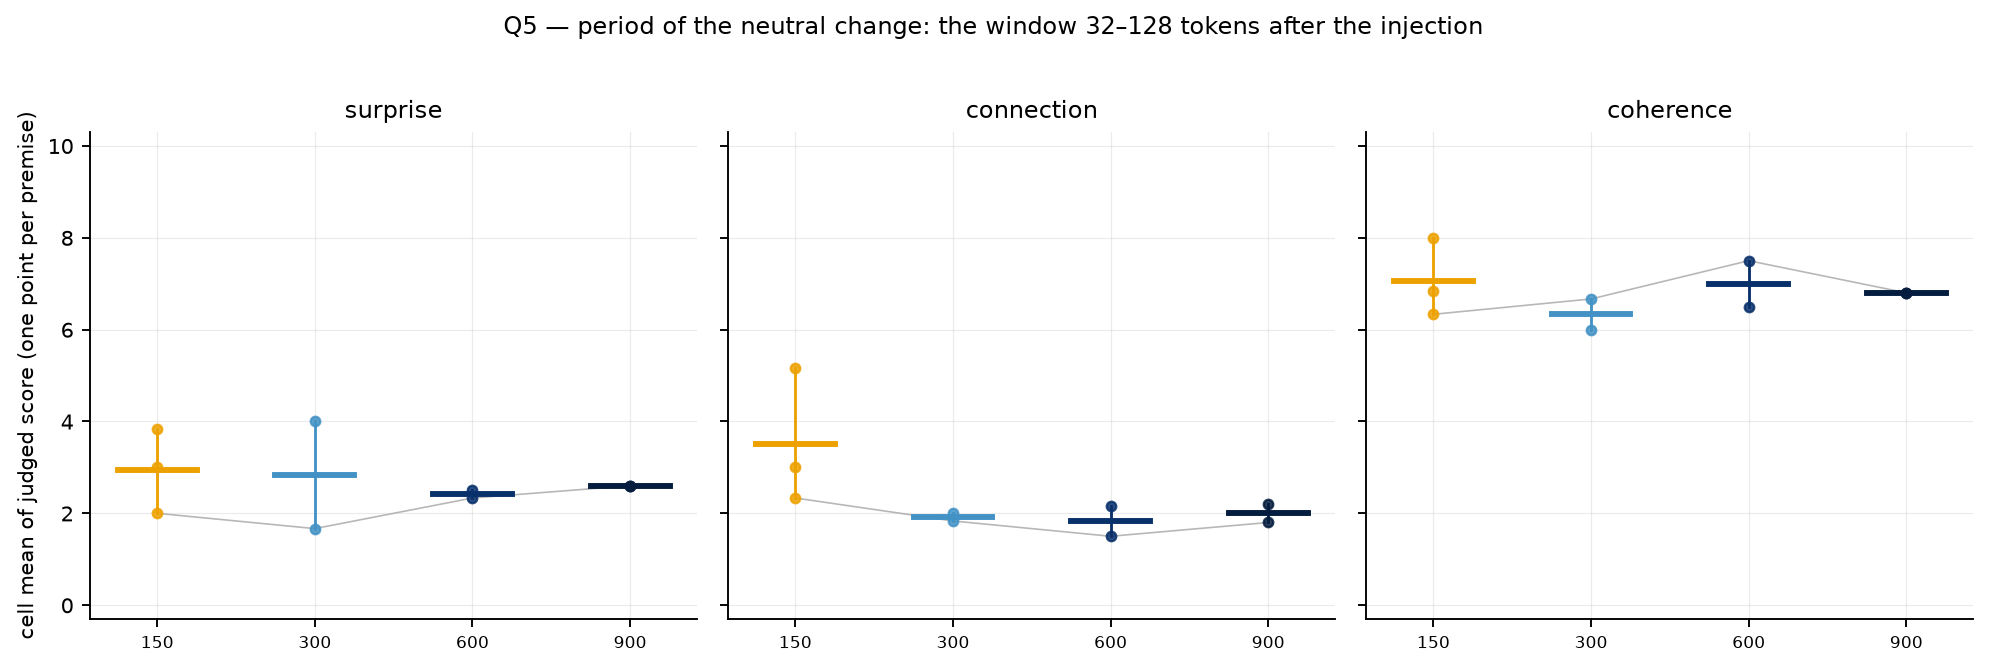
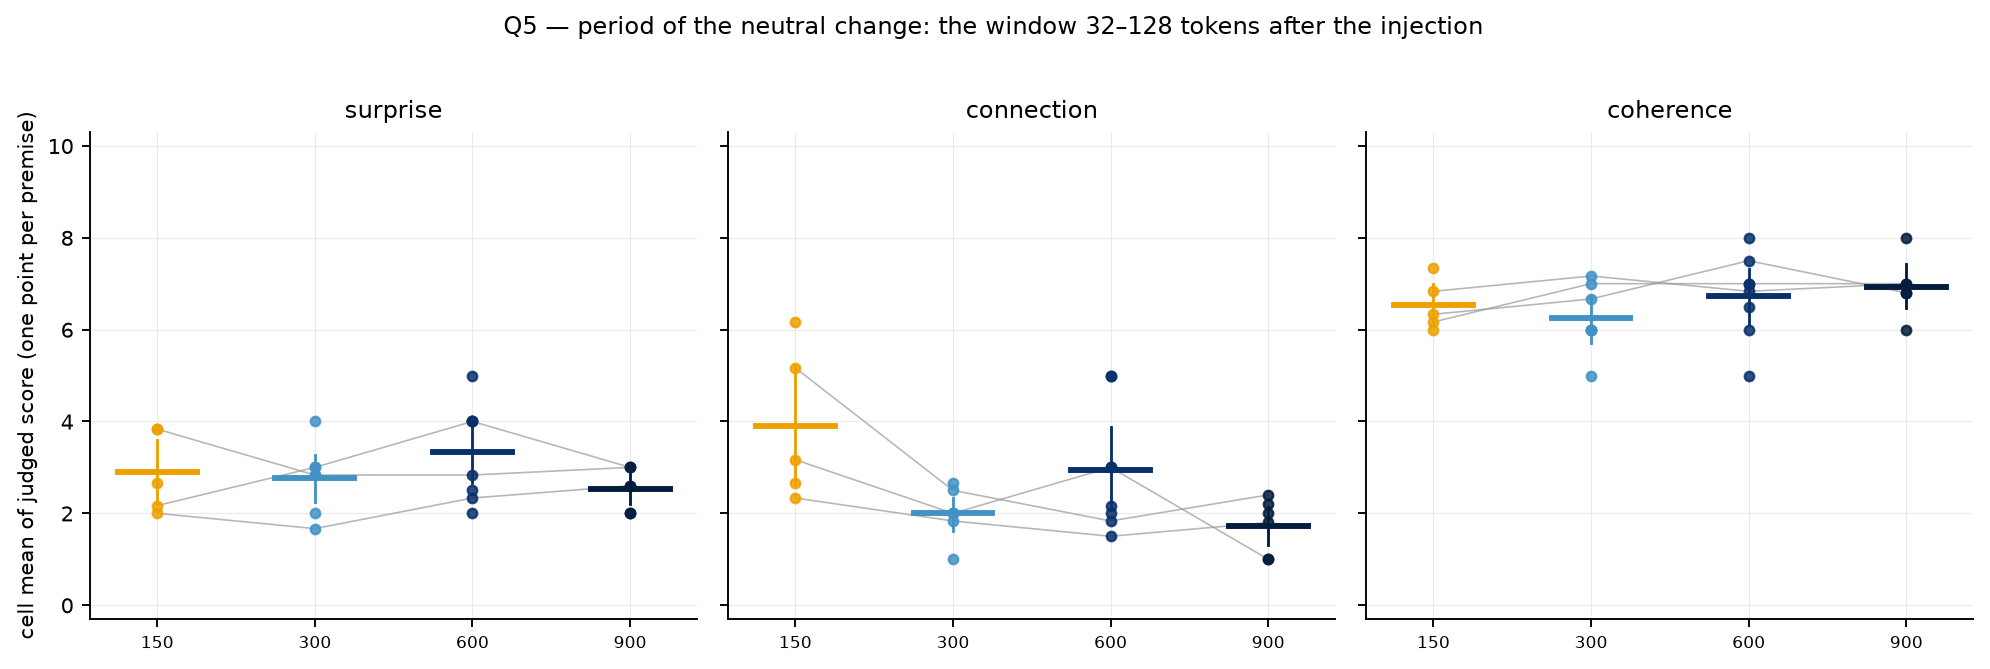
analysis_gen: deep-window comparison (>=300 tokens after the last injection)

diff --git a/scripts/analysis_gen.py b/scripts/analysis_gen.py
@@ -63,13 +63,15 @@ def load_gen(run: str):
 
 
 def cell_means(rows, cond, dim, offset="primary"):
-    """{seed: mean over the cell's windows}. offset: 'primary' (since==32 or grid), 'all', or an int."""
+    """{seed: mean over the cell's windows}. offset: 'primary' (since==32 or grid), 'all', 'deep' (since >= 300), or an int."""
     by = {}
     for r in rows:
         if r["cond"] != cond:
             continue
         s = r.get("since")
         if offset == "primary" and s not in (32, None):
+            continue
+        if offset == "deep" and (s is None or s < 300):
             continue
         if isinstance(offset, int) and s != offset:
             continue
@@ -222,6 +224,11 @@ def main() -> None:
           [("clock_reenc", "stitch on the clock 150"), ("clock900_reenc", "stitch on the clock 900"),
            ("clock900", "neutral change 900"), ("sal_reenc", "stitch on salience events"), ("abl_salience", "salience only")],
           ref=1, fname="fig9_q4_timing.png")
+    # Q4b: deep into the segment (>= 300 generated tokens after the last injection): where the stream is left alone
+    block("Q4b — deep windows (at least 300 tokens after the last injection): the stream when it is left alone", main30,
+          [("clock900_reenc", "stitch on the clock 900"), ("clock900", "neutral change 900"), ("clock600", "neutral change 600"),
+           ("sal_reenc", "stitch on salience events"), ("scaffold0", "DREAM scaffold")],
+          ref=0, fname=None, offset="deep")
     # Q5: period (post-interruption window, offset 32) and decay curve
     block("Q5 — period of the neutral change: the window 32–128 tokens after the injection", main30,
           [("bare_reseed", "150"), ("clock300", "300"), ("clock600", "600"), ("clock900", "900")],

diff --git a/docs/APPENDIX_GEN.md b/docs/APPENDIX_GEN.md
@@ -2,18 +2,18 @@
 
 Windows of 96 model-generated tokens starting 32 tokens after each injection (none crossing an injection); uniform grid for uninterrupted arms; the judge sees the 600 preceding tokens as context. Unit = cell (premise); CIs are bootstrap over cells; paired comparisons use exact sign-flip permutation p-values on the 10 paired differences and Cliff's delta on cell means. Opus 5, k=5, median per window.
 
-279 judged windows on the main generator, 94 on Qwen3-8B, 77 on OLMo-2.
+564 judged windows on the main generator, 174 on Qwen3-8B, 144 on OLMo-2.
 
 
 ### Q1 — habituation × interruption (period 150) and baselines — cell means (mean over cells [95% CI over cells])
 
 | condition | n cells | surprise | connection | coherence |
 |---|---|---|---|---|
-| bare | 3 | 0.72 [0.33, 1.33] | 0.50 [0.17, 0.67] | 3.33 [1.33, 6.17] |
-| bare + habituation | 2 | 1.75 [1.50, 2.00] | 1.00 [1.00, 1.00] | 5.17 [4.33, 6.00] |
+| bare | 5 | 0.57 [0.33, 0.97] | 0.37 [0.13, 0.60] | 3.07 [1.87, 4.70] |
+| bare + habituation | 7 | 0.86 [0.31, 1.40] | 0.81 [0.38, 1.29] | 4.88 [3.05, 6.69] |
 | reseed 150, no habituation | 0 | — | — | — |
-| habituation + reseed 150 | 3 | 2.94 [2.00, 3.83] | 3.50 [2.33, 5.17] | 7.06 [6.33, 8.00] |
-| DREAM scaffold | 2 | 2.25 [1.50, 3.00] | 1.08 [1.00, 1.17] | 5.00 [4.67, 5.33] |
+| habituation + reseed 150 | 5 | 2.90 [2.20, 3.60] | 3.90 [2.63, 5.20] | 6.53 [6.13, 7.00] |
+| DREAM scaffold | 5 | 2.20 [1.80, 2.70] | 1.40 [1.03, 1.97] | 5.77 [4.67, 6.87] |
 | habituation 1.3 | 0 | — | — | — |
 | habituation, EOS allowed | 0 | — | — | — |
 
@@ -21,29 +21,47 @@ Windows of 96 model-generated tokens starting 32 tokens after each injection (no
 
 | condition | dim | Δ [CI] | p (perm) | q (BH) | Cliff δ | n seeds |
 |---|---|---|---|---|---|---|
+| bare | surprise | -0.54 [-1.42, +0.33] | 0.500 | 0.562 | +0.00 | 4 |
+| bare | connection | -0.21 [-0.92, +0.50] | 0.750 | 0.750 | -0.12 | 4 |
+| bare | coherence | -1.08 [-3.08, +0.92] | 0.500 | 0.562 | -0.12 | 4 |
+| habituation + reseed 150 | surprise | **+1.75 [+0.33, +3.17]** | 0.125 | 0.281 | +0.94 | 4 |
+| habituation + reseed 150 | connection | **+2.83 [+1.67, +4.42]** | 0.125 | 0.281 | +1.00 | 4 |
+| habituation + reseed 150 | coherence | **+2.96 [+1.08, +4.83]** | 0.125 | 0.281 | +0.94 | 4 |
+| DREAM scaffold | surprise | +1.21 [+0.00, +2.42] | 0.500 | 0.562 | +0.69 | 4 |
+| DREAM scaffold | connection | **+0.92 [+0.08, +1.92]** | 0.250 | 0.450 | +0.75 | 4 |
+| DREAM scaffold | coherence | **+2.75 [+0.67, +5.12]** | 0.125 | 0.281 | +0.75 | 4 |
 
 ### Q2 — what is injected (period 150) — cell means (mean over cells [95% CI over cells])
 
 | condition | n cells | surprise | connection | coherence |
 |---|---|---|---|---|
-| neutral subject change | 3 | 2.94 [2.00, 3.83] | 3.50 [2.33, 5.17] | 7.06 [6.33, 8.00] |
-| re-encounter stitch | 3 | 3.50 [2.67, 4.00] | 4.83 [3.33, 6.00] | 6.61 [5.83, 7.00] |
-| the premise itself | 3 | 1.50 [0.33, 3.00] | 0.72 [0.17, 1.00] | 5.28 [3.67, 6.17] |
-| the stream's own past | 2 | 0.75 [0.50, 1.00] | 0.83 [0.67, 1.00] | 3.58 [2.83, 4.33] |
+| neutral subject change | 5 | 2.90 [2.20, 3.60] | 3.90 [2.63, 5.20] | 6.53 [6.13, 7.00] |
+| re-encounter stitch | 8 | 3.04 [2.27, 3.73] | 4.29 [3.42, 5.17] | 5.48 [4.62, 6.27] |
+| the premise itself | 9 | 0.92 [0.36, 1.57] | 0.66 [0.26, 1.06] | 3.88 [2.64, 5.06] |
+| the stream's own past | 5 | 1.12 [0.40, 2.15] | 1.38 [0.47, 2.48] | 3.27 [2.17, 4.37] |
 
 ### vs neutral subject change — paired by seed
 
 | condition | dim | Δ [CI] | p (perm) | q (BH) | Cliff δ | n seeds |
 |---|---|---|---|---|---|---|
+| re-encounter stitch | surprise | +0.72 [-0.17, +1.83] | 0.500 | 0.500 | +0.33 | 3 |
+| re-encounter stitch | connection | +1.06 [-0.17, +2.83] | 0.500 | 0.500 | +0.44 | 3 |
+| re-encounter stitch | coherence | -0.67 [-1.50, +0.67] | 0.500 | 0.500 | -0.33 | 3 |
+| the premise itself | surprise | **-1.88 [-3.17, -1.00]** | 0.125 | 0.375 | -1.00 | 4 |
+| the premise itself | connection | **-3.08 [-5.04, -1.50]** | 0.125 | 0.375 | -1.00 | 4 |
+| the premise itself | coherence | **-3.17 [-4.75, -1.17]** | 0.125 | 0.375 | -0.81 | 4 |
+| the stream's own past | surprise | **-2.56 [-3.83, -1.00]** | 0.250 | 0.375 | -1.00 | 3 |
+| the stream's own past | connection | **-3.56 [-6.17, -1.33]** | 0.250 | 0.375 | -1.00 | 3 |
+| the stream's own past | coherence | **-4.06 [-5.33, -2.00]** | 0.250 | 0.375 | -1.00 | 3 |
 
 ### Q3 — period 300: what carries the effect (context preserved vs reset; semantic change vs neutral boundary) — cell means (mean over cells [95% CI over cells])
 
 | condition | n cells | surprise | connection | coherence |
 |---|---|---|---|---|
-| no interruption | 2 | 1.75 [1.50, 2.00] | 1.00 [1.00, 1.00] | 5.17 [4.33, 6.00] |
+| no interruption | 7 | 0.86 [0.31, 1.40] | 0.81 [0.38, 1.29] | 4.88 [3.05, 6.69] |
 | paragraph break (sham) | 0 | — | — | — |
 | continuity connective (sham) | 0 | — | — | — |
-| subject change, context preserved | 2 | 2.83 [1.67, 4.00] | 1.92 [1.83, 2.00] | 6.33 [6.00, 6.67] |
+| subject change, context preserved | 7 | 2.76 [2.24, 3.26] | 2.00 [1.62, 2.33] | 6.26 [5.71, 6.74] |
 | subject change, no habituation | 0 | — | — | — |
 | subject change, context reset | 0 | — | — | — |
 | break, context reset | 0 | — | — | — |
@@ -52,112 +70,160 @@ Windows of 96 model-generated tokens starting 32 tokens after each injection (no
 
 | condition | dim | Δ [CI] | p (perm) | q (BH) | Cliff δ | n seeds |
 |---|---|---|---|---|---|---|
+| subject change, context preserved | surprise | **+2.06 [+1.03, +3.11]** | 0.031 | 0.047 | +0.94 | 6 |
+| subject change, context preserved | connection | **+1.39 [+0.94, +1.92]** | 0.031 | 0.047 | +0.92 | 6 |
+| subject change, context preserved | coherence | **+2.11 [+0.17, +3.94]** | 0.125 | 0.125 | +0.58 | 6 |
 
 ### Q4 — timing: salience vs clock (same stitch) — cell means (mean over cells [95% CI over cells])
 
 | condition | n cells | surprise | connection | coherence |
 |---|---|---|---|---|
-| stitch on the clock 150 | 3 | 3.50 [2.67, 4.00] | 4.83 [3.33, 6.00] | 6.61 [5.83, 7.00] |
-| stitch on the clock 900 | 2 | 3.40 [2.80, 4.00] | 3.25 [2.80, 3.70] | 6.30 [5.80, 6.80] |
-| neutral change 900 | 2 | 2.60 [2.60, 2.60] | 2.00 [1.80, 2.20] | 6.80 [6.80, 6.80] |
-| stitch on salience events | 2 | 3.00 [2.50, 3.50] | 2.00 [1.50, 2.50] | 5.25 [5.00, 5.50] |
-| salience only | 3 | 1.39 [0.17, 2.50] | 0.78 [0.00, 1.33] | 3.89 [2.50, 4.67] |
+| stitch on the clock 150 | 8 | 3.04 [2.27, 3.73] | 4.29 [3.42, 5.17] | 5.48 [4.62, 6.27] |
+| stitch on the clock 900 | 7 | 3.50 [2.97, 4.00] | 3.11 [2.71, 3.53] | 6.20 [5.83, 6.60] |
+| neutral change 900 | 6 | 2.53 [2.20, 2.87] | 1.73 [1.30, 2.13] | 6.93 [6.47, 7.43] |
+| stitch on salience events | 5 | 3.38 [2.80, 4.04] | 2.71 [1.54, 3.92] | 5.55 [4.63, 6.52] |
+| salience only | 5 | 1.47 [0.77, 2.10] | 0.83 [0.37, 1.27] | 3.57 [2.67, 4.47] |
 
 ### vs stitch on the clock 900 — paired by seed
 
 | condition | dim | Δ [CI] | p (perm) | q (BH) | Cliff δ | n seeds |
 |---|---|---|---|---|---|---|
+| stitch on the clock 150 | surprise | -0.19 [-1.15, +0.71] | 0.750 | 0.818 | -0.03 | 6 |
+| stitch on the clock 150 | connection | **+1.59 [+0.21, +2.84]** | 0.125 | 0.500 | +0.67 | 6 |
+| stitch on the clock 150 | coherence | -0.59 [-1.62, +0.07] | 0.375 | 0.643 | -0.22 | 6 |
+| neutral change 900 | surprise | **-0.70 [-1.15, -0.30]** | 0.125 | 0.500 | -0.50 | 4 |
+| neutral change 900 | connection | **-0.97 [-1.38, -0.55]** | 0.125 | 0.500 | -0.94 | 4 |
+| neutral change 900 | coherence | +0.55 [-0.20, +1.30] | 0.500 | 0.667 | +0.62 | 4 |
+| stitch on salience events | surprise | +0.05 [-1.50, +1.60] | 1.000 | 1.000 | +0.06 | 4 |
+| stitch on salience events | connection | +0.28 [-1.45, +1.88] | 0.625 | 0.750 | +0.25 | 4 |
+| stitch on salience events | coherence | -0.56 [-1.22, +0.10] | 0.500 | 0.667 | -0.31 | 4 |
+| salience only | surprise | **-2.14 [-3.63, -1.30]** | 0.250 | 0.500 | -1.00 | 3 |
+| salience only | connection | **-2.29 [-3.40, -1.67]** | 0.250 | 0.500 | -1.00 | 3 |
+| salience only | coherence | **-2.18 [-2.90, -1.50]** | 0.250 | 0.500 | -1.00 | 3 |
+
+### Q4b — deep windows (at least 300 tokens after the last injection): the stream when it is left alone — cell means (mean over cells [95% CI over cells])
+
+| condition | n cells | surprise | connection | coherence |
+|---|---|---|---|---|
+| stitch on the clock 900 | 8 | 2.98 [1.86, 4.31] | 1.80 [1.44, 2.24] | 5.12 [4.42, 5.66] |
+| neutral change 900 | 10 | 2.58 [2.05, 3.11] | 1.84 [1.35, 2.45] | 5.38 [4.53, 6.14] |
+| neutral change 600 | 7 | 2.93 [1.95, 4.07] | 2.31 [1.57, 3.00] | 5.40 [4.74, 6.10] |
+| stitch on salience events | 6 | 1.65 [0.83, 2.43] | 1.61 [0.43, 2.86] | 4.29 [3.45, 5.17] |
+| DREAM scaffold | 3 | 1.26 [0.75, 1.80] | 0.96 [0.44, 1.25] | 5.51 [3.22, 7.50] |
+
+### vs stitch on the clock 900 — paired by seed
+
+| condition | dim | Δ [CI] | p (perm) | q (BH) | Cliff δ | n seeds |
+|---|---|---|---|---|---|---|
+| neutral change 900 | surprise | -0.33 [-1.88, +0.97] | 0.750 | 0.875 | +0.00 | 8 |
+| neutral change 900 | connection | +0.12 [-0.25, +0.56] | 0.688 | 0.875 | -0.08 | 8 |
+| neutral change 900 | coherence | +0.12 [-0.73, +0.96] | 0.805 | 0.875 | +0.05 | 8 |
+| neutral change 600 | surprise | +0.64 [-0.65, +2.29] | 0.594 | 0.875 | +0.25 | 6 |
+| neutral change 600 | connection | +0.32 [-0.47, +1.15] | 0.531 | 0.875 | +0.17 | 6 |
+| neutral change 600 | coherence | +0.19 [-0.60, +1.07] | 0.750 | 0.875 | -0.03 | 6 |
+| stitch on salience events | surprise | +0.14 [-0.98, +0.99] | 0.875 | 0.875 | +0.25 | 4 |
+| stitch on salience events | connection | +0.56 [-0.70, +1.81] | 0.500 | 0.875 | +0.00 | 4 |
+| stitch on salience events | coherence | -1.20 [-2.31, +0.24] | 0.250 | 0.875 | -0.56 | 4 |
 
 ### Q5 — period of the neutral change: the window 32–128 tokens after the injection — cell means (mean over cells [95% CI over cells])
 
 | condition | n cells | surprise | connection | coherence |
 |---|---|---|---|---|
-| 150 | 3 | 2.94 [2.00, 3.83] | 3.50 [2.33, 5.17] | 7.06 [6.33, 8.00] |
-| 300 | 2 | 2.83 [1.67, 4.00] | 1.92 [1.83, 2.00] | 6.33 [6.00, 6.67] |
-| 600 | 2 | 2.42 [2.33, 2.50] | 1.83 [1.50, 2.17] | 7.00 [6.50, 7.50] |
-| 900 | 2 | 2.60 [2.60, 2.60] | 2.00 [1.80, 2.20] | 6.80 [6.80, 6.80] |
+| 150 | 5 | 2.90 [2.20, 3.60] | 3.90 [2.63, 5.20] | 6.53 [6.13, 7.00] |
+| 300 | 7 | 2.76 [2.24, 3.26] | 2.00 [1.62, 2.33] | 6.26 [5.71, 6.74] |
+| 600 | 8 | 3.33 [2.67, 4.02] | 2.94 [2.10, 3.88] | 6.73 [6.12, 7.31] |
+| 900 | 6 | 2.53 [2.20, 2.87] | 1.73 [1.30, 2.13] | 6.93 [6.47, 7.43] |
 
 ### vs 150 — paired by seed
 
 | condition | dim | Δ [CI] | p (perm) | q (BH) | Cliff δ | n seeds |
 |---|---|---|---|---|---|---|
+| 300 | surprise | -0.04 [-0.67, +0.58] | 1.000 | 1.000 | +0.12 | 4 |
+| 300 | connection | **-1.50 [-2.29, -0.79]** | 0.125 | 0.281 | -0.88 | 4 |
+| 300 | coherence | **+0.38 [+0.08, +0.71]** | 0.250 | 0.375 | +0.44 | 4 |
+| 600 | surprise | +0.33 [-0.67, +1.42] | 0.625 | 0.804 | +0.50 | 4 |
+| 600 | connection | **-1.38 [-2.71, -0.42]** | 0.125 | 0.281 | -0.62 | 4 |
+| 600 | coherence | **+0.67 [+0.21, +1.04]** | 0.250 | 0.375 | +0.69 | 4 |
+| 900 | surprise | -0.02 [-0.75, +0.72] | 1.000 | 1.000 | +0.06 | 4 |
+| 900 | connection | **-1.78 [-2.49, -0.94]** | 0.125 | 0.281 | -0.88 | 4 |
+| 900 | coherence | **+0.87 [+0.32, +1.62]** | 0.125 | 0.281 | +0.88 | 4 |
 
 ### Q5b — decay: cell mean surprise by tokens since the injection (window start), generated text only; stream estimate = offset means weighted by the stretch of the segment each window represents
 
 | period | offset 32 | offset 160 | offset 300 | offset 450 | offset 600 | offset 750 | stream estimate (S / C / H) |
 |---|---|---|---|---|---|---|---|
-| 150 | 2.94 (n=3) | — | — | — | — | — | 2.94 / 3.50 / 7.06 |
-| 300 | — | — | — | — | — | — | nan / nan / nan |
-| 600 | — | — | — | — | — | — | nan / nan / nan |
-| 900 | — | — | — | 2.22 (n=3) | — | — | 2.22 / 1.78 / 4.44 |
+| 150 | 2.90 (n=5) | — | — | — | — | — | 2.90 / 3.90 / 6.53 |
+| 300 | 2.76 (n=7) | 2.17 (n=4) | — | — | — | — | 2.48 / 2.04 / 6.30 |
+| 600 | 3.33 (n=8) | 3.07 (n=5) | 3.40 (n=5) | 2.40 (n=5) | — | — | 3.05 / 2.64 / 6.23 |
+| 900 | 2.53 (n=6) | 2.28 (n=6) | 3.29 (n=7) | 2.33 (n=6) | 3.00 (n=5) | 1.40 (n=5) | 2.47 / 1.88 / 5.84 |
 
 ### Q6 — the ladder on Qwen3-8B-Base — cell means (mean over cells [95% CI over cells])
 
 | condition | n cells | surprise | connection | coherence |
 |---|---|---|---|---|
-| bare | 3 | 0.61 [0.00, 1.17] | 0.67 [0.17, 1.00] | 3.83 [2.83, 4.83] |
-| bare + habituation | 3 | 1.17 [0.50, 2.17] | 0.44 [0.17, 0.83] | 4.89 [1.67, 7.00] |
-| habituation + reseed 150 | 3 | 3.11 [2.00, 3.83] | 3.83 [3.17, 4.50] | 5.22 [3.83, 6.50] |
-| DREAM scaffold | 3 | 2.33 [1.00, 3.67] | 1.89 [0.67, 3.33] | 3.89 [2.00, 5.00] |
+| bare | 6 | 0.50 [0.17, 0.83] | 0.47 [0.22, 0.75] | 4.17 [3.00, 5.83] |
+| bare + habituation | 6 | 1.36 [0.89, 1.83] | 0.81 [0.36, 1.33] | 4.25 [2.81, 5.72] |
+| habituation + reseed 150 | 6 | 2.76 [1.87, 3.50] | 3.17 [2.19, 3.97] | 4.83 [3.75, 5.75] |
+| DREAM scaffold | 5 | 2.53 [1.53, 3.53] | 1.73 [1.00, 2.60] | 4.93 [3.33, 6.20] |
 
 ### vs bare + habituation — paired by seed
 
 | condition | dim | Δ [CI] | p (perm) | q (BH) | Cliff δ | n seeds |
 |---|---|---|---|---|---|---|
-| bare | surprise | -0.56 [-1.00, +0.17] | 0.500 | 0.750 | -0.33 | 3 |
-| bare | connection | +0.22 [+0.00, +0.67] | 1.000 | 1.000 | +0.33 | 3 |
-| bare | coherence | -1.06 [-4.17, +2.17] | 0.750 | 0.964 | -0.33 | 3 |
-| habituation + reseed 150 | surprise | +1.94 [-0.17, +3.33] | 0.500 | 0.750 | +0.78 | 3 |
-| habituation + reseed 150 | connection | **+3.39 [+2.33, +4.33]** | 0.250 | 0.750 | +1.00 | 3 |
-| habituation + reseed 150 | coherence | +0.33 [-2.17, +3.67] | 1.000 | 1.000 | -0.11 | 3 |
-| DREAM scaffold | surprise | **+1.17 [+0.17, +2.83]** | 0.250 | 0.750 | +0.78 | 3 |
-| DREAM scaffold | connection | **+1.44 [+0.33, +3.17]** | 0.250 | 0.750 | +0.78 | 3 |
-| DREAM scaffold | coherence | -1.00 [-2.00, +0.33] | 0.500 | 0.750 | -0.33 | 3 |
+| bare | surprise | **-0.86 [-1.36, -0.33]** | 0.062 | 0.281 | -0.72 | 6 |
+| bare | connection | -0.33 [-0.94, +0.22] | 0.500 | 0.723 | -0.31 | 6 |
+| bare | coherence | -0.08 [-2.22, +2.56] | 0.906 | 0.906 | +0.00 | 6 |
+| habituation + reseed 150 | surprise | **+1.40 [+0.33, +2.50]** | 0.125 | 0.375 | +0.69 | 6 |
+| habituation + reseed 150 | connection | **+2.36 [+1.33, +3.39]** | 0.031 | 0.281 | +0.89 | 6 |
+| habituation + reseed 150 | coherence | +0.58 [-0.78, +2.06] | 0.562 | 0.723 | +0.14 | 6 |
+| DREAM scaffold | surprise | **+1.13 [+0.07, +2.23]** | 0.188 | 0.422 | +0.60 | 5 |
+| DREAM scaffold | connection | **+0.83 [+0.00, +2.03]** | 0.250 | 0.450 | +0.52 | 5 |
+| DREAM scaffold | coherence | +0.37 [-1.27, +2.00] | 0.750 | 0.844 | +0.20 | 5 |
 
 ### Q6 — the ladder on OLMo-2-13B — cell means (mean over cells [95% CI over cells])
 
 | condition | n cells | surprise | connection | coherence |
 |---|---|---|---|---|
-| bare | 4 | 1.21 [0.50, 1.79] | 0.92 [0.33, 1.50] | 3.54 [1.58, 5.38] |
-| bare + habituation | 3 | 2.56 [1.50, 3.83] | 1.92 [1.00, 2.75] | 5.50 [3.83, 6.67] |
-| habituation + reseed 150 | 3 | 3.47 [2.17, 4.58] | 3.83 [3.00, 4.67] | 5.00 [4.67, 5.17] |
-| DREAM scaffold | 3 | 3.67 [2.00, 5.00] | 2.72 [1.00, 4.00] | 6.50 [5.00, 8.00] |
+| bare | 6 | 1.25 [0.72, 1.72] | 0.89 [0.42, 1.36] | 3.08 [1.97, 4.03] |
+| bare + habituation | 6 | 2.18 [1.26, 3.01] | 1.46 [0.78, 2.14] | 4.36 [3.00, 5.67] |
+| habituation + reseed 150 | 5 | 2.88 [1.97, 3.92] | 2.97 [1.93, 4.00] | 4.20 [3.33, 5.07] |
+| DREAM scaffold | 5 | 3.40 [2.40, 4.40] | 2.48 [1.63, 3.40] | 6.30 [4.90, 7.70] |
 
 ### vs bare + habituation — paired by seed
 
 | condition | dim | Δ [CI] | p (perm) | q (BH) | Cliff δ | n seeds |
 |---|---|---|---|---|---|---|
-| bare | surprise | -1.61 [-3.67, +0.00] | 0.500 | 0.562 | -0.89 | 3 |
-| bare | connection | -1.25 [-2.75, +0.33] | 0.500 | 0.562 | -0.78 | 3 |
-| bare | coherence | -2.78 [-5.83, +0.00] | 0.500 | 0.562 | -0.89 | 3 |
-| habituation + reseed 150 | surprise | +0.92 [-1.67, +2.25] | 0.500 | 0.562 | +0.33 | 3 |
-| habituation + reseed 150 | connection | **+1.92 [+0.25, +2.83]** | 0.250 | 0.562 | +1.00 | 3 |
-| habituation + reseed 150 | coherence | -0.50 [-2.00, +1.33] | 0.750 | 0.750 | -0.33 | 3 |
-| DREAM scaffold | surprise | **+1.11 [+0.17, +2.67]** | 0.250 | 0.562 | +0.56 | 3 |
-| DREAM scaffold | connection | +0.81 [+0.00, +2.00] | 0.500 | 0.562 | +0.44 | 3 |
-| DREAM scaffold | coherence | +1.00 [-0.17, +2.00] | 0.500 | 0.562 | +0.33 | 3 |
+| bare | surprise | -0.93 [-2.17, +0.14] | 0.188 | 0.422 | -0.64 | 6 |
+| bare | connection | -0.57 [-1.57, +0.25] | 0.438 | 0.492 | -0.42 | 6 |
+| bare | coherence | -1.28 [-3.28, +0.22] | 0.438 | 0.492 | -0.42 | 6 |
+| habituation + reseed 150 | surprise | +0.33 [-1.07, +1.73] | 0.750 | 0.750 | +0.08 | 5 |
+| habituation + reseed 150 | connection | **+1.22 [+0.13, +2.30]** | 0.125 | 0.422 | +0.60 | 5 |
+| habituation + reseed 150 | coherence | -0.70 [-1.63, +0.40] | 0.312 | 0.469 | -0.32 | 5 |
+| DREAM scaffold | surprise | +0.85 [+0.00, +1.87] | 0.188 | 0.422 | +0.36 | 5 |
+| DREAM scaffold | connection | **+0.73 [+0.25, +1.42]** | 0.125 | 0.422 | +0.44 | 5 |
+| DREAM scaffold | coherence | +1.40 [-0.13, +3.13] | 0.250 | 0.450 | +0.52 | 5 |
 
 ### Protocol agreement — condition means, event windows (v1) vs generated-only windows (unit = cell)
 
 | condition | surprise event / gen | connection event / gen | coherence event / gen | n cells (event / gen) |
 |---|---|---|---|---|
-| abl_forget | 3.44 / 2.39 | 1.73 / 1.33 | 3.88 / 4.78 | 10 / 3 |
-| salience only | 2.86 / 1.39 | 1.53 / 0.78 | 3.85 / 3.89 | 10 / 3 |
-| bare | 0.28 / 0.72 | 0.20 / 0.50 | 2.06 / 3.33 | 10 / 3 |
-| bare + habituation | 1.70 / 1.75 | 1.08 / 1.00 | 4.08 / 5.17 | 10 / 2 |
-| habituation + reseed 150 | 3.08 / 2.94 | 3.15 / 3.50 | 4.78 / 7.06 | 10 / 3 |
-| reseed 300 | 4.01 / 2.83 | 3.12 / 1.92 | 5.98 / 6.33 | 10 / 2 |
-| reseed 600 | 3.64 / 2.42 | 2.64 / 1.83 | 5.50 / 7.00 | 10 / 2 |
-| reseed 900 | 4.28 / 2.60 | 2.53 / 2.00 | 5.55 / 6.80 | 10 / 2 |
-| stitch 900 | 3.91 / 3.40 | 3.01 / 3.25 | 5.17 / 6.30 | 10 / 2 |
-| premise 150 | 1.02 / 1.50 | 0.98 / 0.72 | 3.03 / 5.28 | 10 / 3 |
-| re-encounter stitch 150 | 2.55 / 3.50 | 3.53 / 4.83 | 4.67 / 6.61 | 10 / 3 |
-| own past 150 | 1.37 / 0.75 | 1.50 / 0.83 | 3.03 / 3.58 | 10 / 2 |
-| salience-timed stitch | 3.00 / 3.00 | 2.26 / 2.00 | 3.85 / 5.25 | 10 / 2 |
-| DREAM scaffold | 3.50 / 2.25 | 1.70 / 1.08 | 3.82 / 5.00 | 10 / 2 |
+| abl_forget | 3.44 / 2.23 | 1.73 / 1.50 | 3.88 / 5.97 | 10 / 5 |
+| salience only | 2.86 / 1.47 | 1.53 / 0.83 | 3.85 / 3.57 | 10 / 5 |
+| bare | 0.28 / 0.57 | 0.20 / 0.37 | 2.06 / 3.07 | 10 / 5 |
+| bare + habituation | 1.70 / 0.86 | 1.08 / 0.81 | 4.08 / 4.88 | 10 / 7 |
+| habituation + reseed 150 | 3.08 / 2.90 | 3.15 / 3.90 | 4.78 / 6.53 | 10 / 5 |
+| reseed 300 | 4.01 / 2.76 | 3.12 / 2.00 | 5.98 / 6.26 | 10 / 7 |
+| reseed 600 | 3.64 / 3.33 | 2.64 / 2.94 | 5.50 / 6.73 | 10 / 8 |
+| reseed 900 | 4.28 / 2.53 | 2.53 / 1.73 | 5.55 / 6.93 | 10 / 6 |
+| stitch 900 | 3.91 / 3.50 | 3.01 / 3.11 | 5.17 / 6.20 | 10 / 7 |
+| premise 150 | 1.02 / 0.92 | 0.98 / 0.66 | 3.03 / 3.88 | 10 / 9 |
+| re-encounter stitch 150 | 2.55 / 3.04 | 3.53 / 4.29 | 4.67 / 5.48 | 10 / 8 |
+| own past 150 | 1.37 / 1.12 | 1.50 / 1.38 | 3.03 / 3.27 | 10 / 5 |
+| salience-timed stitch | 3.00 / 3.38 | 2.26 / 2.71 | 3.85 / 5.55 | 10 / 5 |
+| DREAM scaffold | 3.50 / 2.20 | 1.70 / 1.40 | 3.82 / 5.77 | 10 / 5 |
 
-Spearman across conditions (surprise): rho = +0.57 (n = 14 conditions).
+Spearman across conditions (surprise): rho = +0.65 (n = 14 conditions).
 
-Spearman across conditions (connection): rho = +0.93 (n = 14 conditions).
+Spearman across conditions (connection): rho = +0.96 (n = 14 conditions).
 
-Spearman across conditions (coherence): rho = +0.80 (n = 14 conditions).
+Spearman across conditions (coherence): rho = +0.86 (n = 14 conditions).
